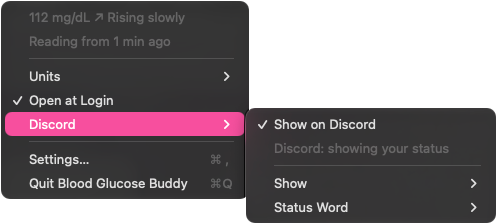
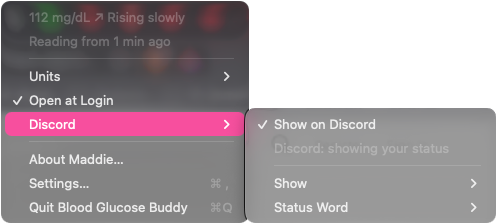
Screenshot the About Maddie window

diff --git a/mac/UITests/ScreenshotTests.swift b/mac/UITests/ScreenshotTests.swift
@@ -121,8 +121,10 @@ final class ScreenshotTests: XCTestCase {
     func test4AboutMaddie() {
         let app = launch(signedIn: true)
         defer { app.terminate() }
-        app.statusItems.firstMatch.click()
-        let about = openMenu(app, showing: "Quit Blood Glucose Buddy").menuItems["openAbout"]
+        let item = app.statusItems.firstMatch
+        XCTAssertTrue(item.waitForExistence(timeout: 15), "menu bar item never appeared")
+        item.click()
+        let about = openMenu(app, showing: "Quit Blood Glucose Buddy").menuItems["About Maddie…"]  // menu items ignore accessibility identifiers
         XCTAssertTrue(about.waitForExistence(timeout: 5), "About Maddie missing from the menu")
         about.click()
         capture(app.windows["About Maddie"], "12-about-maddie")
